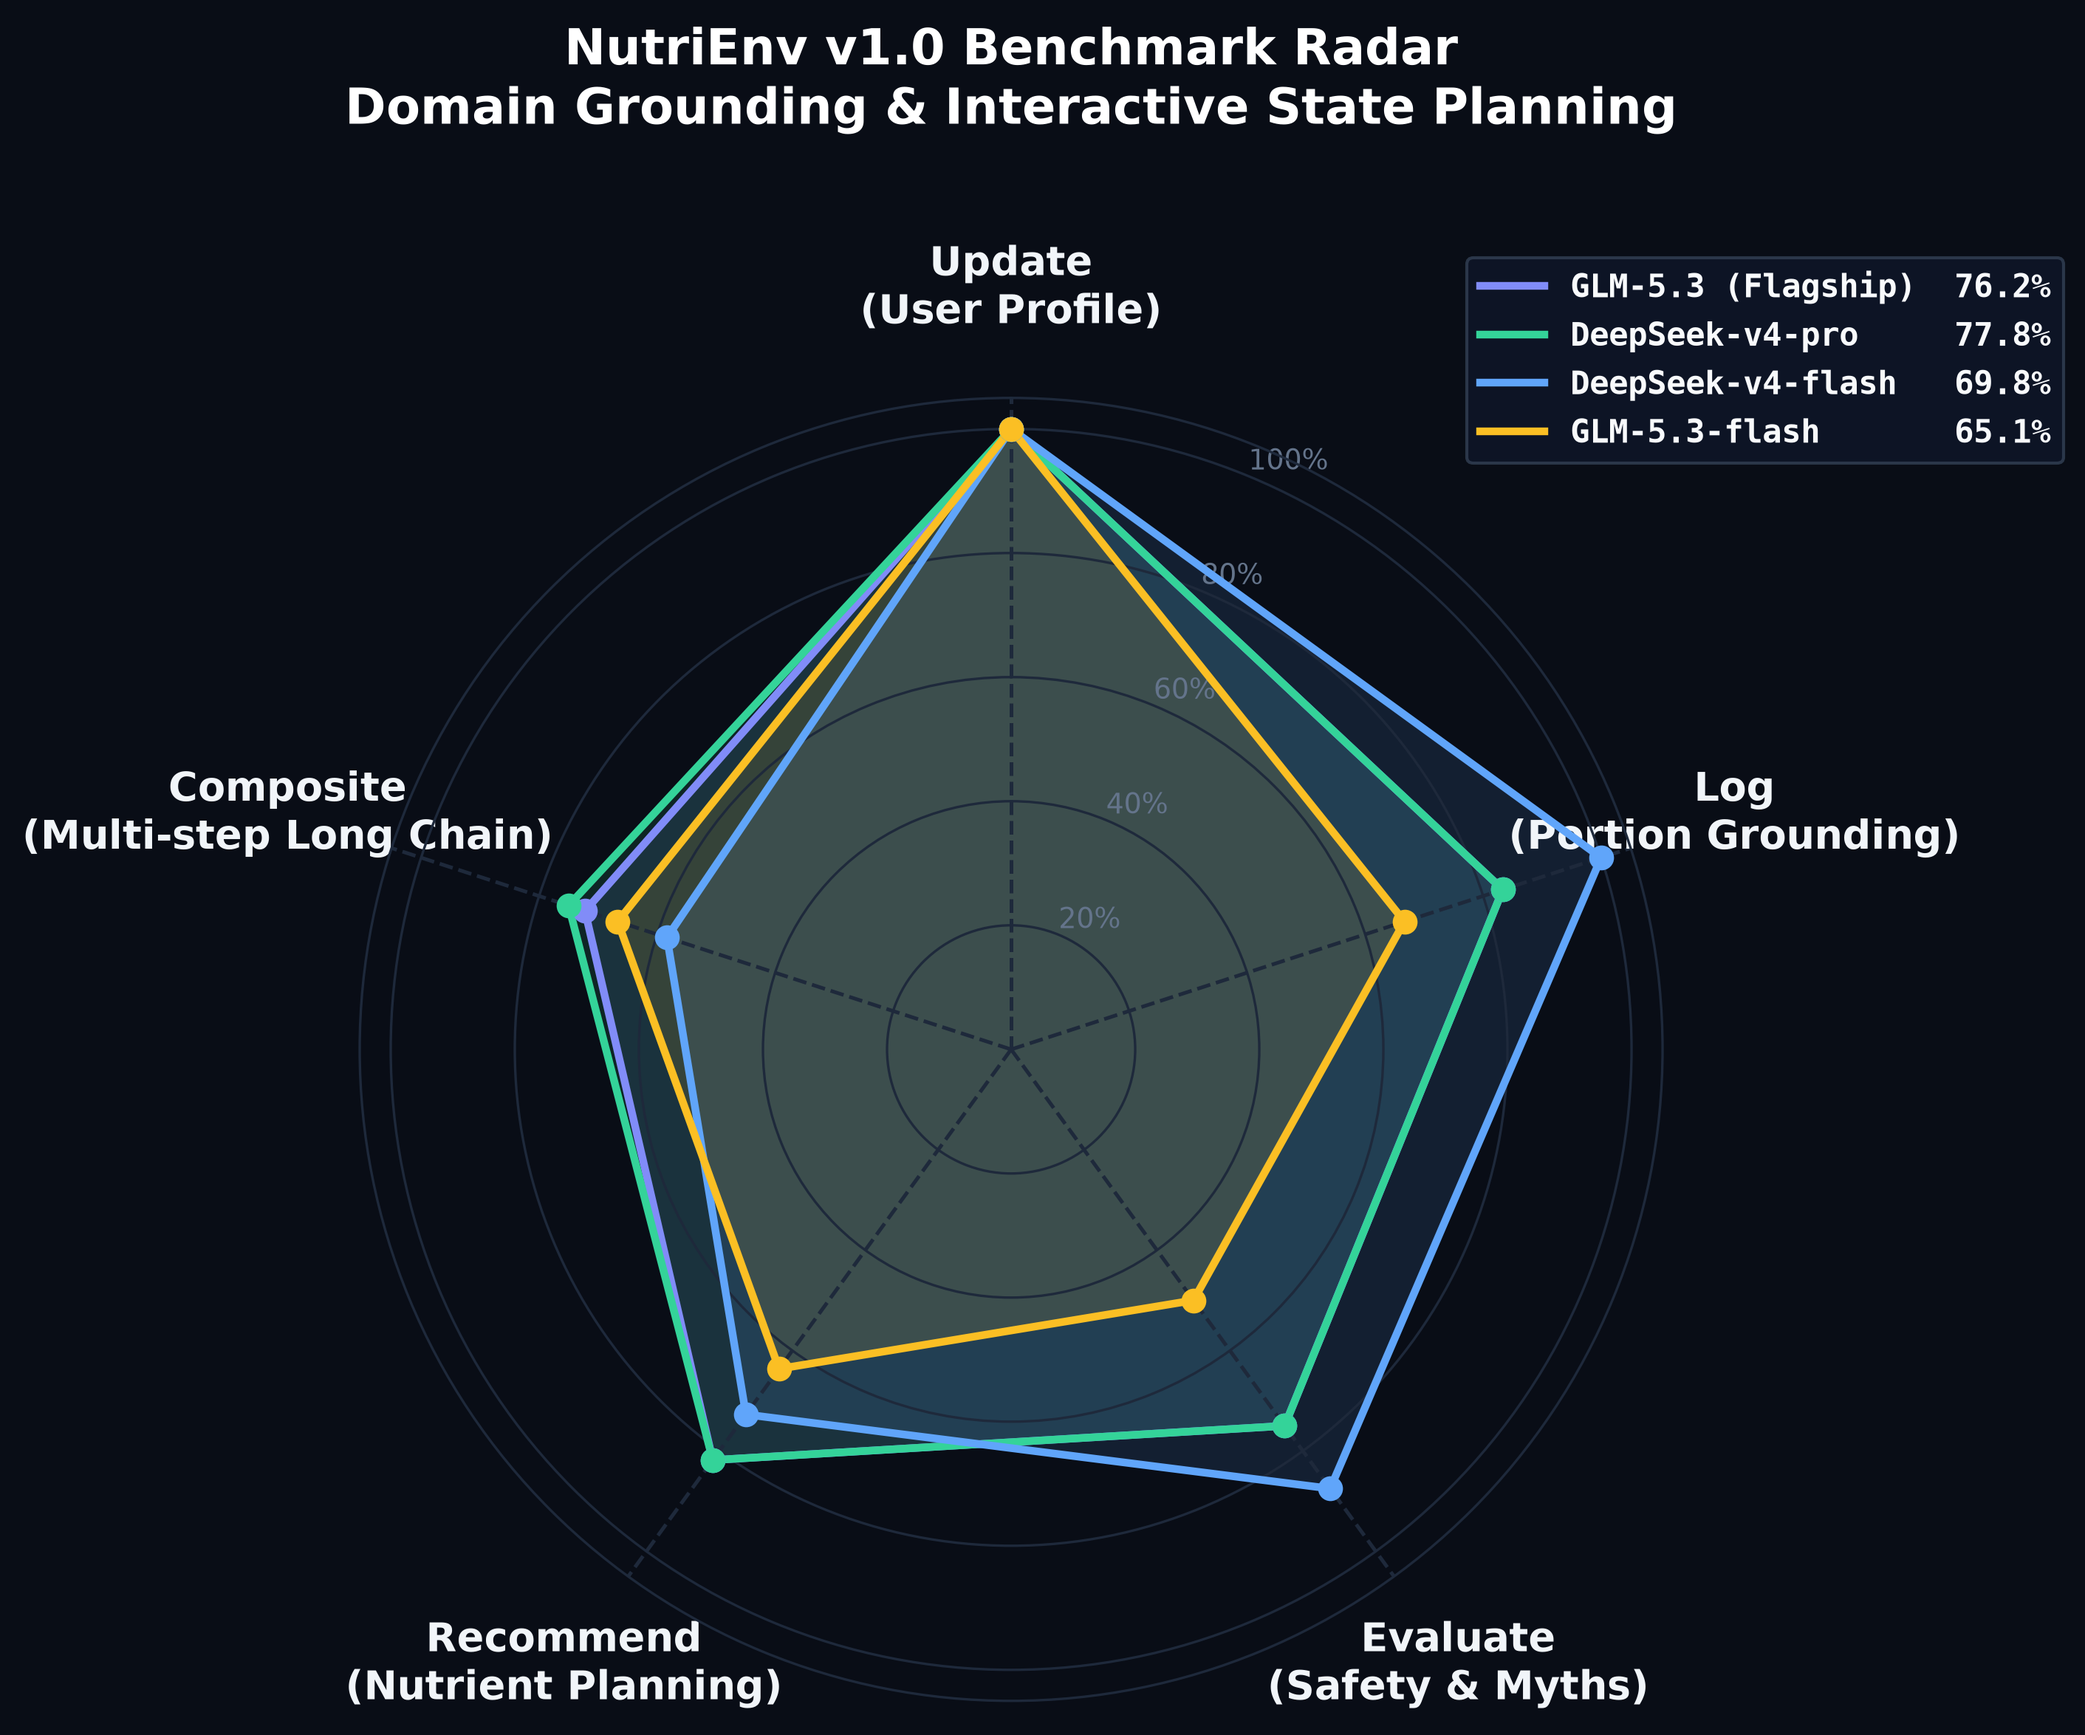
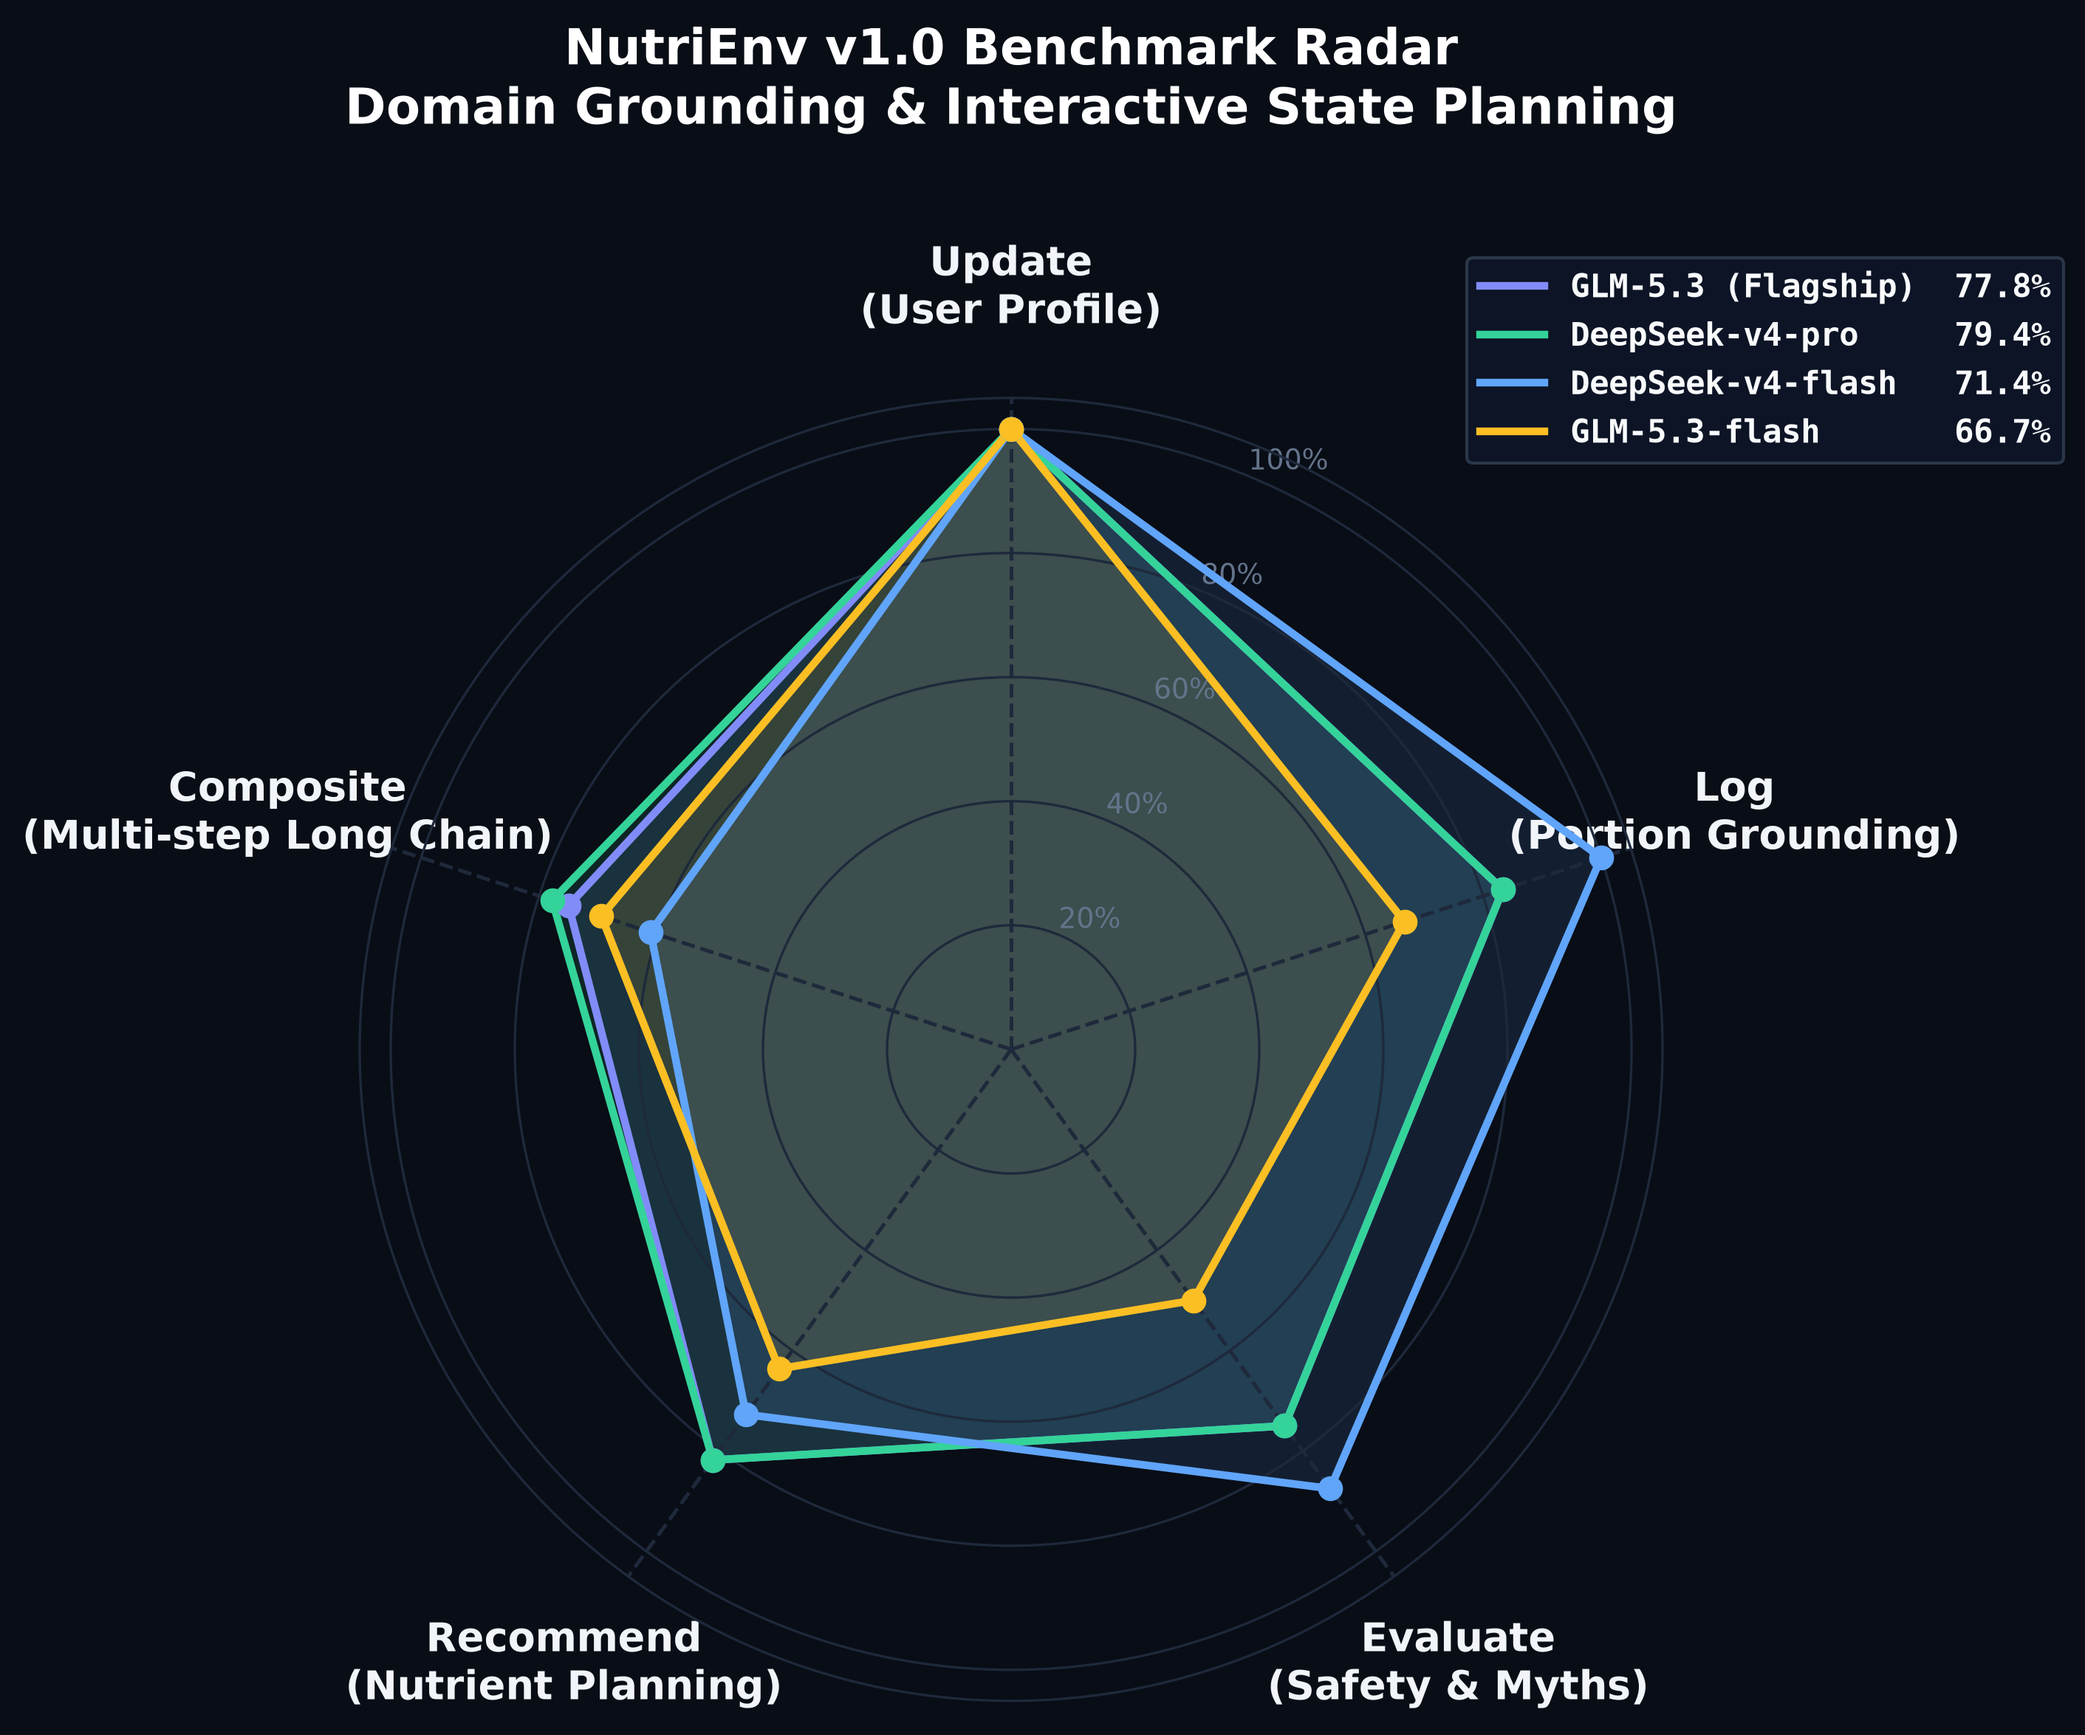
fix(benchmark): correct amend-02 dinner protein window calculation (P0) and refresh v1.0 release metrics

Changed region(s): [[0.2494, 0.2797, 0.4676, 0.808], [0.9352, 0.1865, 0.9663, 0.2486]]

diff --git a/reports/README.md b/reports/README.md
@@ -20,10 +20,10 @@ reports/
 
 | Model | Total Pass Rate | Solved / Total | Avg Steps | Avg Latency | Update (2) | Log (6) | Evaluate (8) | Recommend (11) | Composite (36) |
 |:---|:---:|:---:|:---:|:---:|:---:|:---:|:---:|:---:|:---:|
-| **DeepSeek-v4-pro** | **77.8%** | **49 / 63** | 12.9 | 167.5s | 2/2 (100%) | 5/6 (83.3%) | 6/8 (75.0%) | 9/11 (81.8%) | 27/36 (75.0%) |
-| **GLM-5.3 (Flagship)** | **76.2%** | **48 / 63** | 14.6 | 112.2s | 2/2 (100%) | 5/6 (83.3%) | 6/8 (75.0%) | 9/11 (81.8%) | 26/36 (72.2%) |
-| **DeepSeek-v4-flash** | **69.8%** | **44 / 63** | 11.0 | 248.9s | 2/2 (100%) | 6/6 (100.0%) | 7/8 (87.5%) | 8/11 (72.7%) | 21/36 (58.3%) |
-| **GLM-5.3-flash** | **65.1%** | **41 / 63** | 10.9 | 59.5s | 2/2 (100%) | 4/6 (66.7%) | 4/8 (50.0%) | 7/11 (63.6%) | 24/36 (66.7%) |
+| **DeepSeek-v4-pro** | **79.4%** | **50 / 63** | 12.9 | 167.5s | 2/2 (100%) | 5/6 (83.3%) | 6/8 (75.0%) | 9/11 (81.8%) | 28/36 (77.8%) |
+| **GLM-5.3 (Flagship)** | **77.8%** | **49 / 63** | 14.6 | 112.2s | 2/2 (100%) | 5/6 (83.3%) | 6/8 (75.0%) | 9/11 (81.8%) | 27/36 (75.0%) |
+| **DeepSeek-v4-flash** | **71.4%** | **45 / 63** | 11.0 | 248.9s | 2/2 (100%) | 6/6 (100.0%) | 7/8 (87.5%) | 8/11 (72.7%) | 22/36 (61.1%) |
+| **GLM-5.3-flash** | **66.7%** | **42 / 63** | 10.9 | 59.5s | 2/2 (100%) | 4/6 (66.7%) | 4/8 (50.0%) | 7/11 (63.6%) | 25/36 (69.4%) |
 
 > **Note**: All models in this benchmark suite were evaluated by invoking model endpoints provided by **Volcano Engine (火山引擎) Agent Plan**.
 Each benchmark JSON includes complete step-by-step tool actions, observations, latency, token usage, and final state validation tags.
